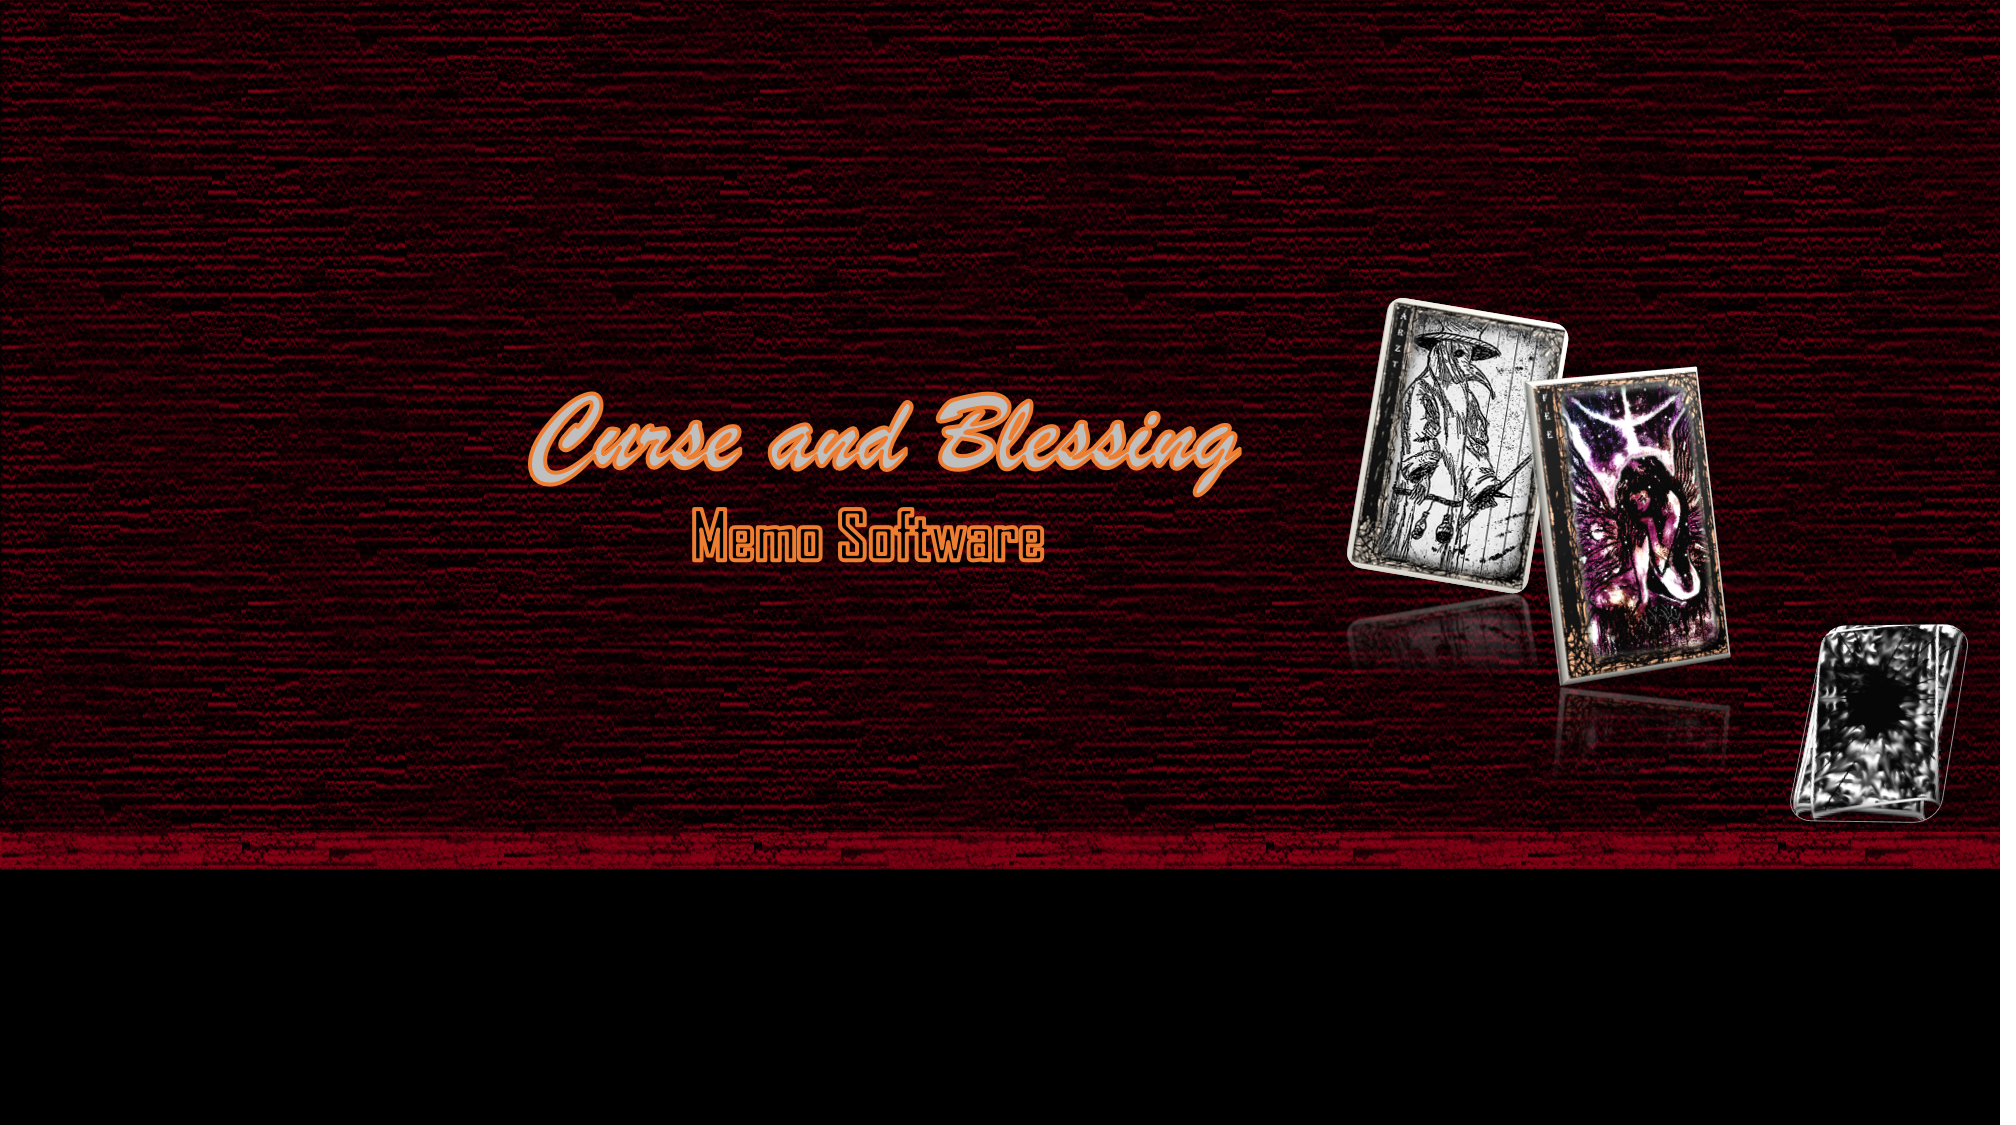
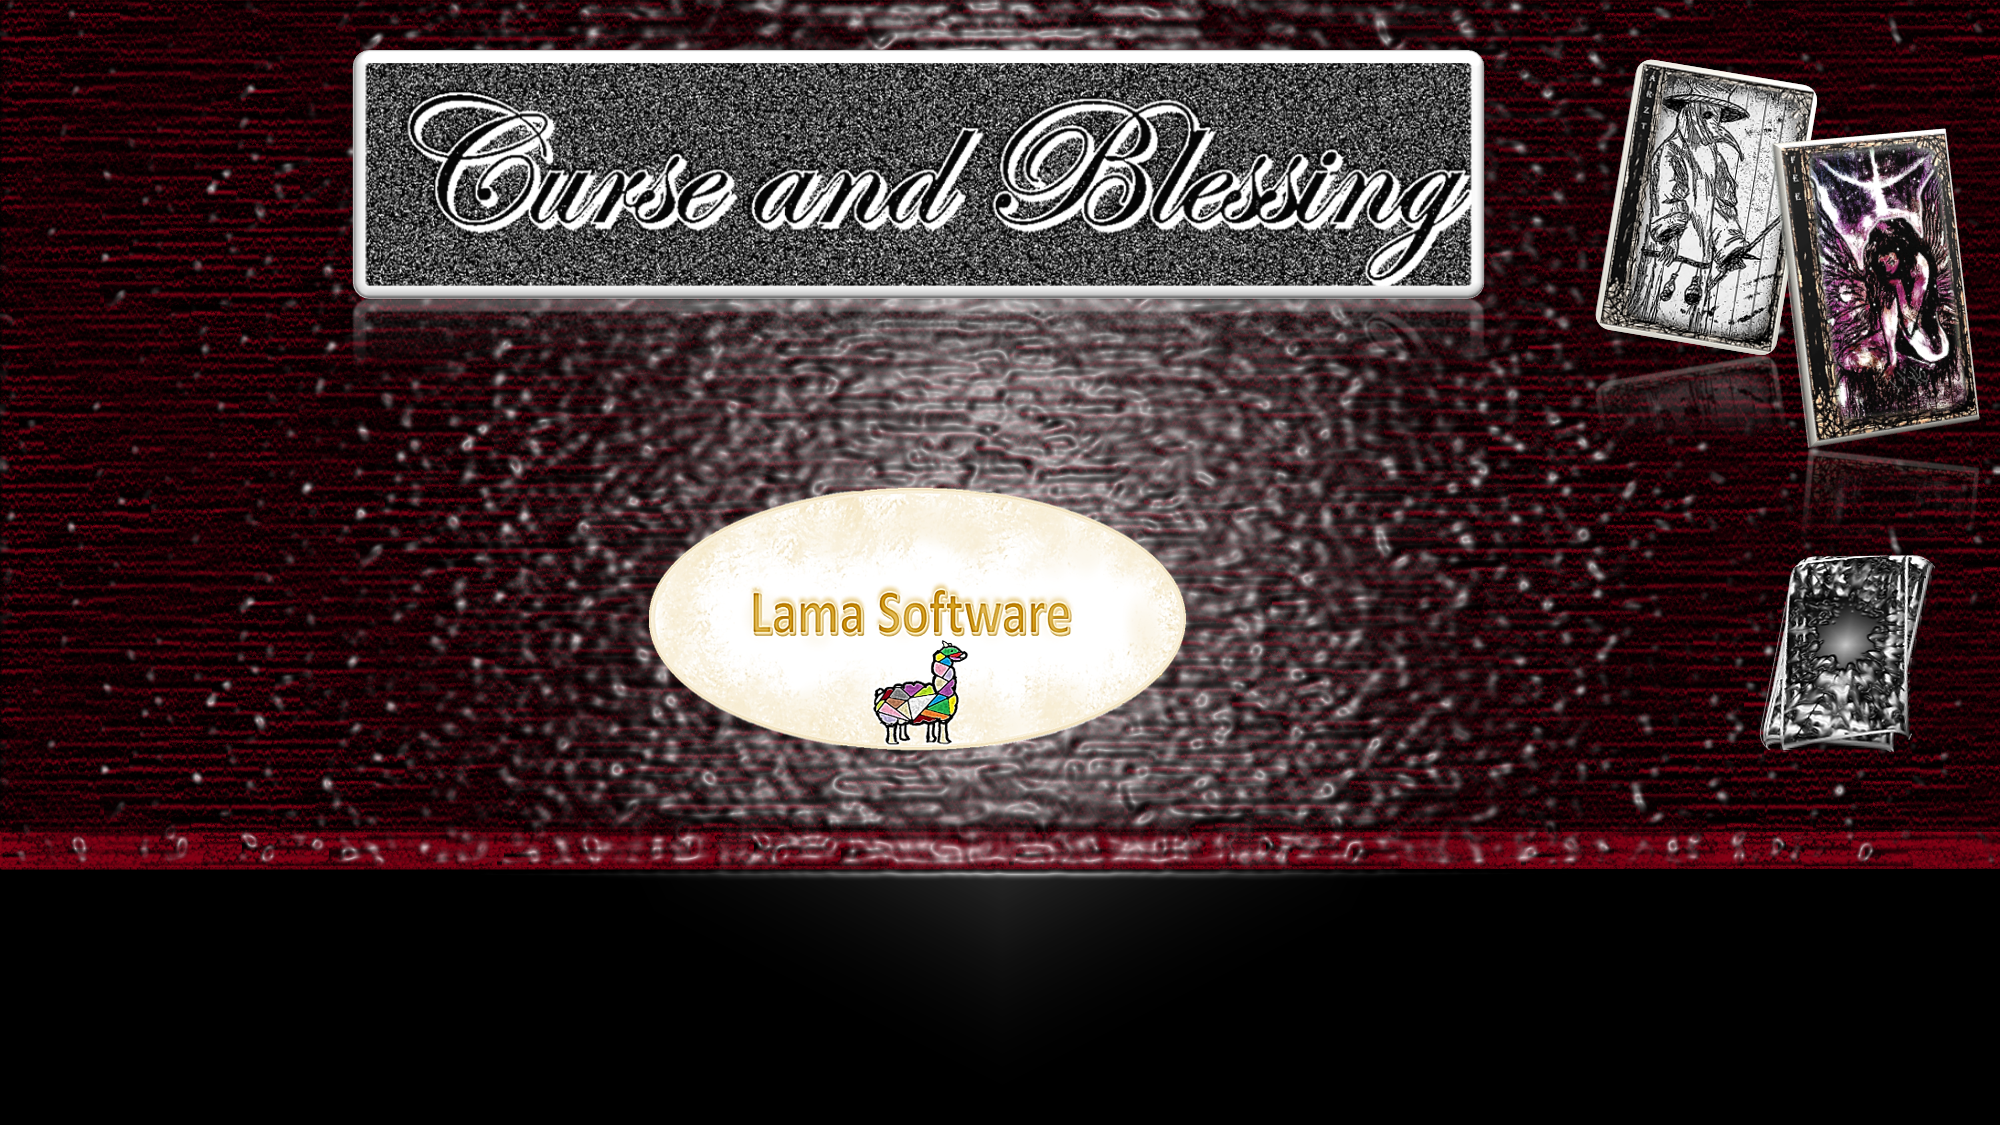
neue bgs und design

diff --git a/src/main/java/com/cab/states/Shop.java b/src/main/java/com/cab/states/Shop.java
@@ -151,24 +151,26 @@ public class Shop {
     }
 
     public void draw(Graphics2D g2) {
-        g2.setFont(Main.v.brushedFont25);
-        g2.setColor(Color.WHITE);
-        g2.drawString("Punkte", Positions.tileSizeRight4, Positions.tileSize);
-        g2.drawString("" + gp.player.punkte, Positions.tileSizeRight2, Positions.tileSize);
+        g2.drawImage(gp.imageLoader.genersichBG, 0, 0, Positions.screenWidth, Positions.screenHeight, null);
+
+        g2.setFont(Main.v.brushedFont36);
+        g2.setColor(Color.RED);
+        g2.drawString("Punkte", Positions.tileSize26, Positions.tileSizeBottom3Point5);
+        g2.drawString("" + gp.player.punkte, Positions.tileSize30, Positions.tileSizeBottom3Point5);
         g2.setFont(Main.v.brushedFont36);
         g2.setColor(Color.red);
-        g2.drawString("Shop", Positions.tileSize, Positions.tileSize2);
+        g2.drawString("Shop", Positions.tileSize, Positions.tileSizeBottom3Point5);
 
         if (currentState == shopState) {
             for (int i = 0; i < booster.size(); i++) {
-                g2.drawImage(gp.imageLoader.getBoosterForArt(booster.get(i)), xPositionsBooster.get(i), Positions.tileSize3, Positions.tileSize4, Positions.tileSize6, null);
+                g2.drawImage(gp.imageLoader.getBoosterForArt(booster.get(i)), xPositionsBooster.get(i), Positions.tileSize10, Positions.tileSize4, Positions.tileSize6, null);
                 if (selectedIdx == i) {
-                    g2.drawImage(gp.imageLoader.boosterHover, xPositionsBooster.get(i), Positions.tileSize3, Positions.tileSize4, Positions.tileSize6, null);
+                    g2.drawImage(gp.imageLoader.boosterHover, xPositionsBooster.get(i), Positions.tileSize10, Positions.tileSize4, Positions.tileSize6, null);
                 }
             }
 
             g2.setColor(Color.WHITE);
-            g2.drawString(booster.get(selectedIdx) + "-Pack Preis: " + getPreisForArt(booster.get(selectedIdx)), Positions.tileSize, Positions.screenHalfHeight);
+            g2.drawString(booster.get(selectedIdx) + "-Pack Preis: " + getPreisForArt(booster.get(selectedIdx)), Positions.tileSize, Positions.tileSizeBottom2);
     
             g2.setColor(Color.RED);
             if (showMsgBesitztAlleKartenAusPack) {
@@ -178,33 +180,34 @@ public class Shop {
             }
         } else if (currentState == askToBuyState) {
             g2.drawImage(gp.imageLoader.getBoosterForArt(artWantedToBuy), Positions.tileSize, Positions.tileSize2Point5, Positions.tileSize7, Positions.tileSize12, null);
-            g2.drawString(artWantedToBuy + "-Pack", Positions.tileSize10, Positions.tileSize4);
+
+            g2.drawString(artWantedToBuy + "-Pack", Positions.tileSize4, Positions.tileSize19);
             g2.setColor(Color.WHITE);
-            g2.drawString("Bist du dir sicher dass du diese Pack für " + getPreisForArt(artWantedToBuy) + " kaufen willst?", Positions.tileSize10, Positions.tileSize6);
+            g2.drawString("Bist du dir sicher dass du diese Pack für " + getPreisForArt(artWantedToBuy) + " kaufen willst?", Positions.tileSize, Positions.tileSize21);
 
             if (selectedIdx == 0) {
                 g2.setColor(Color.YELLOW);
             } else {
                 g2.setColor(Color.WHITE);
             }
-            g2.drawString("Ja", Positions.tileSize10, Positions.tileSize8);
+            g2.drawString("Ja", Positions.tileSize26, Positions.tileSize21);
 
             if (selectedIdx == 1) {
                 g2.setColor(Color.YELLOW);
             } else {
                 g2.setColor(Color.WHITE);
             }
-            g2.drawString("Nein", Positions.tileSize13, Positions.tileSize8);
+            g2.drawString("Nein", Positions.tileSize28, Positions.tileSize21);
         } else if (currentState == showBoughtCardState) {
             g2.setColor(Color.ORANGE);
-            g2.drawString("Neue Karte erhalten", Positions.tileSize3, Positions.tileSize4);
-            g2.drawImage(boughtCard.image, Positions.tileSize3, Positions.tileSize5, Positions.tileSize9, Positions.tileSize14, null);
-            g2.drawImage(gp.imageLoader.animHolo.get(), Positions.tileSize3, Positions.tileSize5, Positions.tileSize9, Positions.tileSize14, null);
+            g2.drawString("Neue Karte erhalten", Positions.tileSize4, Positions.tileSize19);
+            g2.drawImage(boughtCard.image, Positions.tileSize, Positions.tileSize3, Positions.tileSize9, Positions.tileSize14, null);
+            g2.drawImage(gp.imageLoader.animHolo.get(), Positions.tileSize, Positions.tileSize3, Positions.tileSize9, Positions.tileSize14, null);
             g2.setFont(Main.v.brushedFont36);
             g2.setColor(Color.WHITE);
-            g2.drawString(boughtCard.name, Positions.tileSize14, Positions.tileSize6);
-            g2.drawImage(gp.imageLoader.getArtIconForArt(boughtCard.art, true), Positions.tileSize14, Positions.tileSize7, Positions.tileSize2, Positions.tileSize2, null);
-            g2.drawString(boughtCard.art.toString(), Positions.tileSize17, Positions.tileSize8);
+            g2.drawString(boughtCard.name, Positions.tileSize4, Positions.tileSize21);
+            g2.drawImage(gp.imageLoader.getArtIconForArt(boughtCard.art, true), Positions.tileSize15, Positions.tileSize19, Positions.tileSize2, Positions.tileSize2, null);
+            g2.drawString(boughtCard.art.toString(), Positions.tileSize17Point5, Positions.tileSize20);
 
         }
     }

diff --git a/src/main/java/com/cab/states/Language.java b/src/main/java/com/cab/states/Language.java
@@ -42,11 +42,13 @@ public class Language {
     }
 
     public void draw(Graphics2D g2) {
+        g2.drawImage(gp.imageLoader.genersichBG, 0, 0, Positions.screenWidth, Positions.screenHeight, null);
+
         g2.setColor(Color.RED);
         g2.setFont(Main.v.brushedFont36);
 
         for (int i = 0; i < headers.length; i++) {
-            g2.drawString(headers[i], Positions.tileSize, Positions.tileSize7);
+            g2.drawString(headers[i], Positions.tileSize, Positions.tileSizeBottom2Point5);
             g2.drawImage(gp.imageLoader.getFlagForLand(langs[i], selectIdx == i), xPositions[i], Positions.screenHalfHeight, Positions.tileSize4, Positions.tileSize3Point6, null);
         }
     }

diff --git a/src/main/java/com/cab/configs/Positions.java b/src/main/java/com/cab/configs/Positions.java
@@ -89,8 +89,12 @@ public class Positions {
     public static int tileSize16 = tileSize * 16;
     public static int tileSize17 = tileSize * 17;
     public static int tileSize18 = tileSize * 18;
+    public static int tileSize19 = tileSize * 19;
+    public static int tileSize20 = tileSize * 20;
     public static int tileSize21 = tileSize * 21;
     public static int tileSize26 = tileSize * 26;
+    public static int tileSize28 = tileSize * 28;
+    public static int tileSize30 = tileSize * 30;
     public static int tileSize31 = tileSize * 31;
 
     public static int tileSizeBottom2 = Main.screenHeight - tileSize * 2;

diff --git a/src/main/java/com/cab/draw/ImageLoader.java b/src/main/java/com/cab/draw/ImageLoader.java
@@ -10,6 +10,7 @@ import com.cab.card.*;;
 
 public class ImageLoader {
     public AnimImage loadingScreen;
+    public BufferedImage genersichBG;
     public BufferedImage loadingScreenBg;
     public BufferedImage cardBackgroundImage;
 
@@ -98,6 +99,7 @@ public class ImageLoader {
     }
 
     public void init() {
+        genersichBG = resourceAsStream("/bgs/genersichBG.png");
         cardBackgroundImage = resourceAsStream("/cardGameImgs/cardBg.png");
         
         instractionKeyboardMenu = resourceAsStream("/instractions/keyboard/hauptmenu.png");
